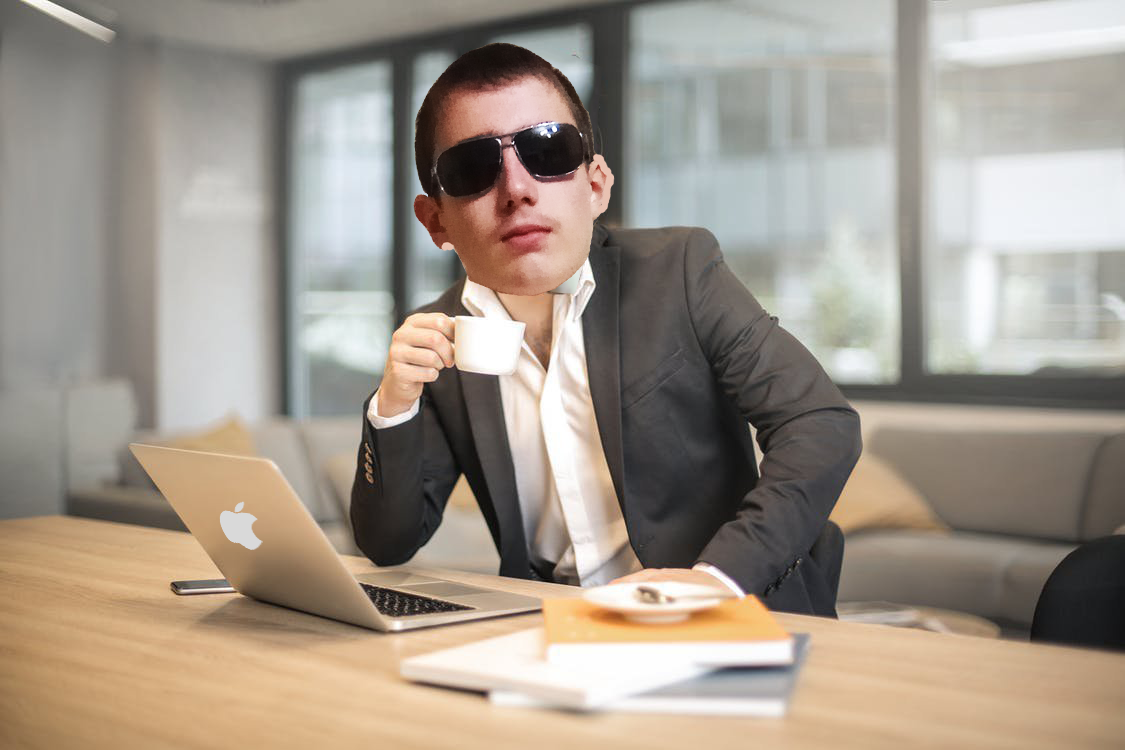
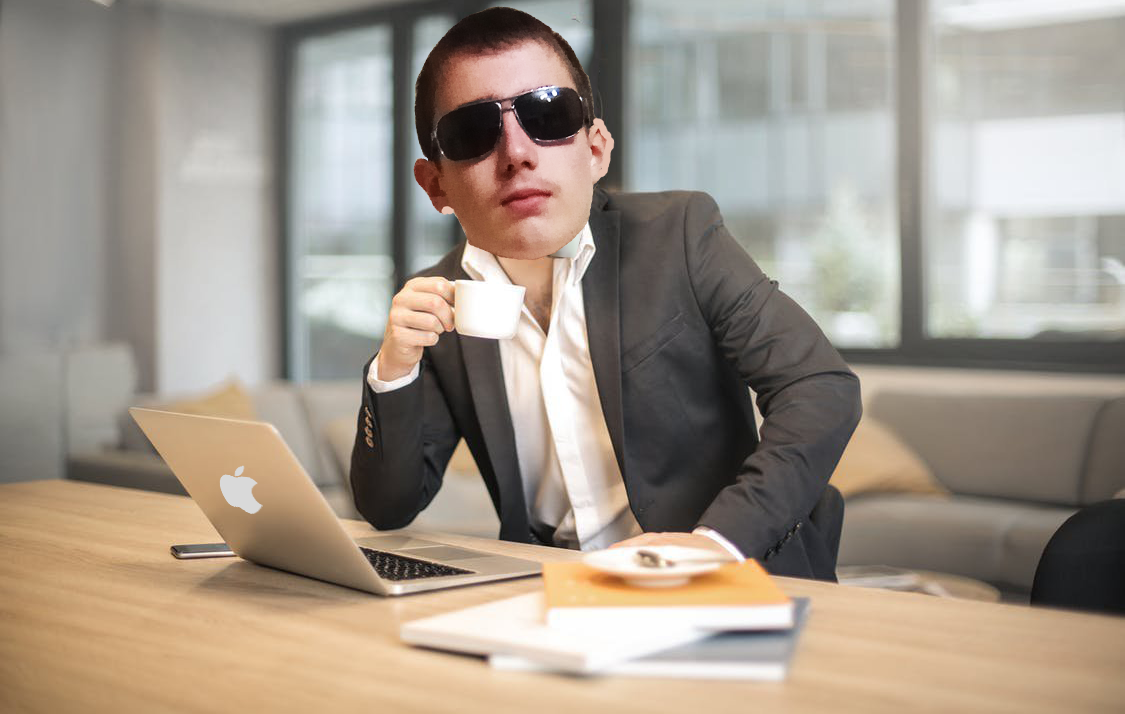
first page

diff --git a/styles/style.css b/styles/style.css
@@ -5,14 +5,15 @@ html, body {
 .firstpage {
     padding: 15px;
     height: 100vh;
-    background-image: linear-gradient(rgba(0, 0, 0, 0.5), rgba(0, 0, 0, 0.5)), url('../img/photo.png');
-    background-position: center;
+    background-image: linear-gradient(rgba(0, 0, 0, 0.4), rgba(0, 0, 0, 0.4)), url('../img/photo.png');
+    background-position: center, top;
     background-repeat: no-repeat;
     background-size: cover;
     background-attachment: fixed;
 }
 
 .logo-wrap {
+    z-index: 99;
     position: sticky;
     top: 15px;
     left: 15px;
@@ -21,4 +22,20 @@ html, body {
 .logo-wrap img {
     width: auto;
     height: 2.5rem;
+}
+.name-wrap {
+    text-align: center;
+    color: white;
+    position: sticky;
+    top: 50%;
+    transform: translateY(-50%);
+    margin-bottom: -5%;
+}
+.title {
+    font-size: 5rem;
+    font-family: 'Lexend Deca', sans-serif;
+}
+.subtitle {
+    font-size: 2rem;
+    font-family: 'Courgette', cursive;
 }

diff --git a/index.html b/index.html
@@ -5,6 +5,7 @@
     <meta name="viewport" content="width=device-width, initial-scale=1.0">
     <meta http-equiv="X-UA-Compatible" content="ie=edge">
     <meta charset="UTF-8">
+    <link href="https://fonts.googleapis.com/css?family=Courgette|Lexend+Deca&display=swap" rel="stylesheet">
     <link rel="stylesheet" href="https://maxcdn.bootstrapcdn.com/bootstrap/4.0.0/css/bootstrap.min.css"
         integrity="sha384-Gn5384xqQ1aoWXA+058RXPxPg6fy4IWvTNh0E263XmFcJlSAwiGgFAW/dAiS6JXm" crossorigin="anonymous">
     <link rel="stylesheet" href="styles/style.css">
@@ -16,6 +17,10 @@
     <div class="firstpage">
         <div class="logo-wrap">
             <img src="img/logo.png" alt="Garifullin Tagir">
+        </div>
+        <div class="name-wrap">
+            <div class="title">Garifullin Tagir</div>
+            <div class="subtitle">Make it easier.</div>
         </div>
     </div>
     <div>1</div>
